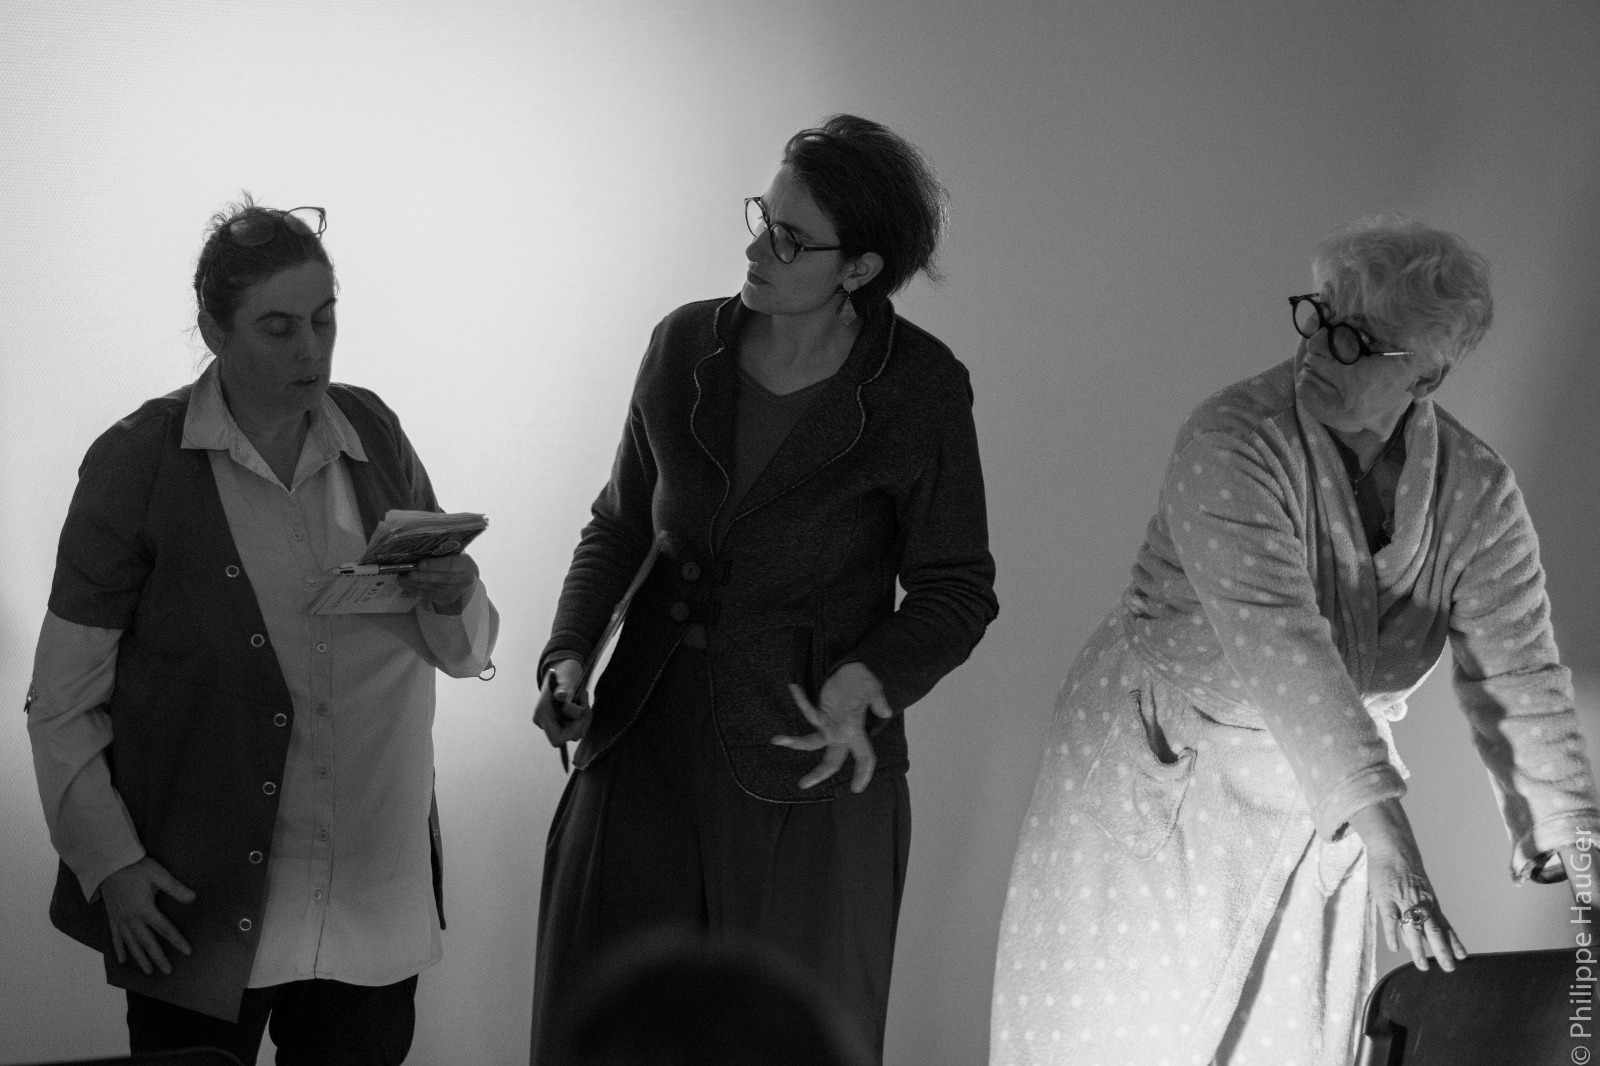
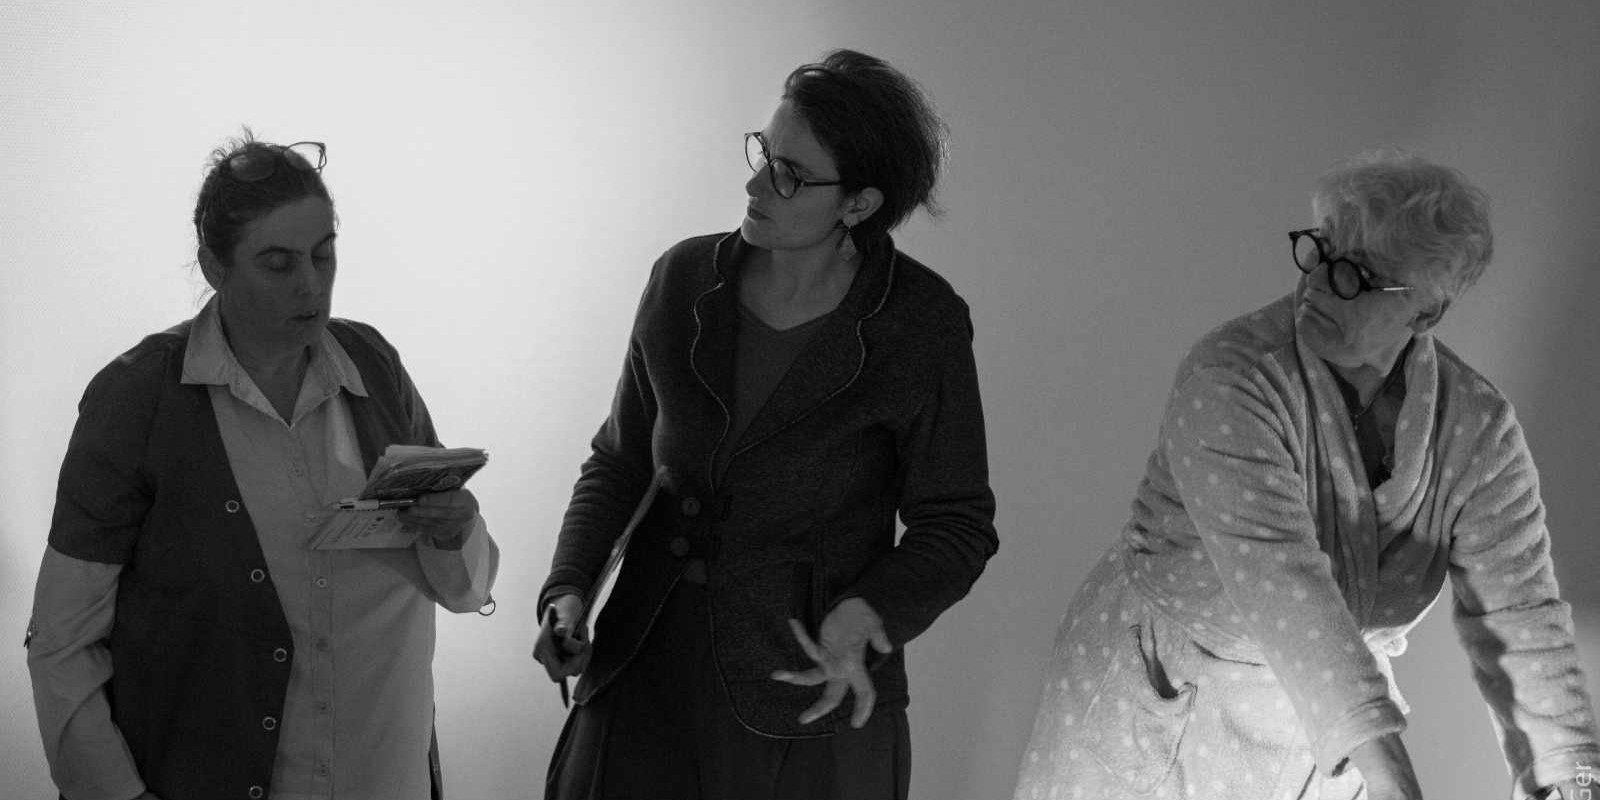
#25 — Carrousel index : photos recadrées 2:1 + ratio fluide

diff --git a/css/responsive.css b/css/responsive.css
@@ -15,7 +15,6 @@
   .hero-boal          { font-size: 1rem; max-width: 100%; }
 
   /* Carousel photos */
-  .carousel-photo-img { height: 420px; }
   .carousel-item img  { height: 380px; }
 }
 
@@ -33,7 +32,6 @@
   .hero-ctas          { flex-direction: column; align-items: flex-start; gap: 0.75rem; }
 
   /* Carousel photos accueil */
-  .carousel-photo-img { height: 340px; }
   .carousel-item img  { height: 300px; }
 
   /* Citations */
@@ -64,7 +62,6 @@
   .hero-ctas .btn-ambre { display: block; text-align: center; }
 
   /* Carousel photos */
-  .carousel-photo-img { height: 260px; }
   .carousel-item img  { height: 240px; }
 
   /* Fix texte débordant : "Un spectacle rien que pour vous" etc. dans spectacles.html */

diff --git a/css/composants/carousel.css b/css/composants/carousel.css
@@ -95,9 +95,10 @@
 .carousel-photos-section { padding: 0; position: relative; }
 .carousel-photo-img {
   width: 100%;
-  height: 580px;
+  aspect-ratio: 2 / 1;
+  height: auto;
   object-fit: cover;
-  object-position: center top;
+  object-position: center;
 }
 
 /* Dégradé bas de carrousel */
